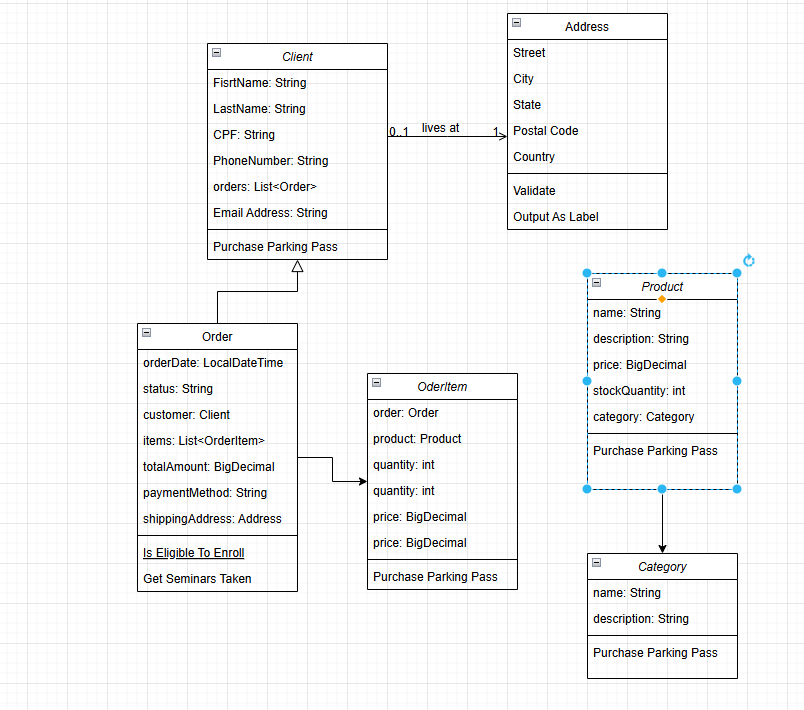
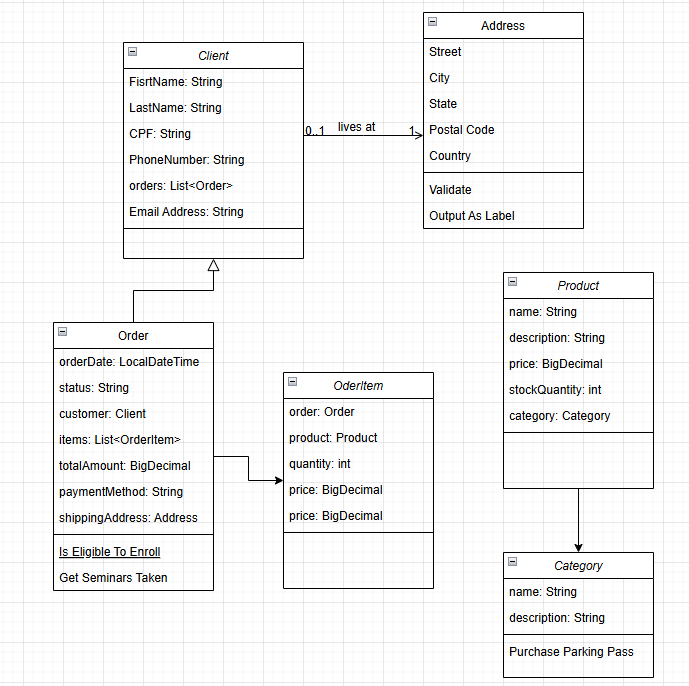
feito alteração no diagrama, entidades criadas e configuradas junto ao h2 database

diff --git a/src/main/java/com/api/wsplus/Entity/OrderItem.java b/src/main/java/com/api/wsplus/Entity/OrderItem.java
@@ -1,4 +1,37 @@
 package com.api.wsplus.Entity;
 
+import jakarta.persistence.*;
+import jakarta.validation.constraints.Min;
+import jakarta.validation.constraints.NotNull;
+import lombok.*;
+
+import java.math.BigDecimal;
+
+@Entity
+@Table(name = "order_item")
+@Getter
+@Setter
+@AllArgsConstructor
+@NoArgsConstructor
 public class OrderItem {
+
+    @Id
+    @GeneratedValue(strategy = GenerationType.IDENTITY)
+    private Long id;
+
+    @ManyToOne
+    @JoinColumn(name = "order_id", nullable = false)
+    @NotNull(message = "Order cannot be null")
+    private Order order;
+
+    @ManyToOne
+    @JoinColumn(name = "product_id", nullable = false)
+    @NotNull(message = "Product cannot be null")
+    private Product product;
+
+    @Min(value = 1, message = "Quantity must be at least 1")
+    private int quantity;
+
+    @NotNull(message = "Price cannot be null")
+    private BigDecimal price;
 }

diff --git a/src/main/java/com/api/wsplus/Entity/Category.java b/src/main/java/com/api/wsplus/Entity/Category.java
@@ -8,33 +8,19 @@ import lombok.NoArgsConstructor;
 import lombok.Setter;
 
 @Entity
-@Table(name = "address")
+@Table(name = "category")
 @Getter
 @Setter
 @AllArgsConstructor
 @NoArgsConstructor
-public class Address {
+public class Category {
 
     @Id
     @GeneratedValue(strategy = GenerationType.IDENTITY)
     private Long id;
 
     @NotBlank
-    private String street;
+    private String name;
 
-    @NotBlank
-    private String city;
-
-    @NotBlank
-    private String state;
-
-    @NotBlank
-    private String postalCode;
-
-    @NotBlank
-    private String country;
-
-    @ManyToOne
-    @JoinColumn(name = "client_id", nullable = false)
-    private Client client; // Relacionamento muitos-para-um com Client
+    private String description;
 }

diff --git a/src/main/java/com/api/wsplus/Entity/Product.java b/src/main/java/com/api/wsplus/Entity/Product.java
@@ -1,0 +1,35 @@
+package com.api.wsplus.Entity;
+
+import jakarta.persistence.*;
+import jakarta.validation.constraints.NotBlank;
+import jakarta.validation.constraints.NotNull;
+import lombok.*;
+
+import java.math.BigDecimal;
+
+@Entity
+@Table(name = "product")
+@Getter
+@Setter
+@AllArgsConstructor
+@NoArgsConstructor
+public class Product {
+
+    @Id
+    @GeneratedValue(strategy = GenerationType.IDENTITY)
+    private Long id;
+
+    @NotBlank
+    private String name;
+
+    private String description;
+
+    @NotNull
+    private BigDecimal price;
+
+    private int stockQuantity;
+
+    @ManyToOne
+    @JoinColumn(name = "category_id", nullable = false)
+    private Category category;
+}
